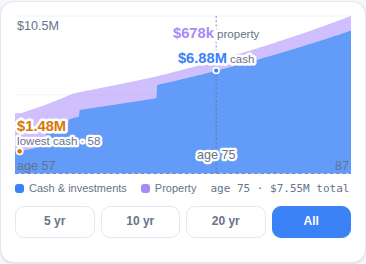
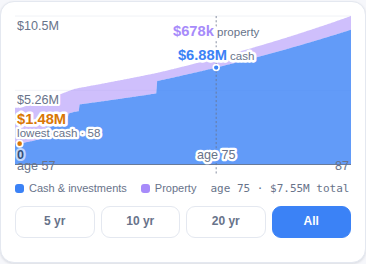
Render zero as a real labelled axis, and label the gridlines
Without a scale to read against, a dot's height cannot be checked against the
number printed beside it, which is why the on-curve figures looked like they did
not match the curve.

Zero is now a solid labelled axis rather than a faint dash, and the two
gridlines carry their values. A sliver is always reserved below zero so the axis
sits inside the plot instead of flush with the bottom edge, where it was
invisible whenever nothing went negative.

Labels are placed zero-first and any that would land on top of an already placed
one is dropped: when the scale spans a deep shortfall the gridlines bunch
against the top and would otherwise print over each other.

Claude-Session: https://claude.ai/code/session_01WhJcZ9Se9VHsj4TqAnspTi

diff --git a/mobile.html b/mobile.html
@@ -1264,7 +1264,10 @@
     const xs = series.map(d => d.age);
     const tops = series.map(d => Math.max(d.liq, 0) + Math.max(d.iliq, 0));
     const lows = series.map(d => Math.min(d.liq, 0));
-    const hi = Math.max(...tops, 1), lo = Math.min(...lows, 0);
+    const hi = Math.max(...tops, 1), rawLo = Math.min(...lows, 0);
+    // Always keep a sliver below zero so the zero axis is a visible line inside the plot
+    // rather than being flush with the bottom edge, where it cannot be seen or labelled.
+    const lo = rawLo < 0 ? rawLo : -hi * 0.06;
     const x = a => (a - xs[0]) / Math.max(xs[xs.length - 1] - xs[0], 1) * W;
     const y = v => H - (v - lo) / Math.max(hi - lo, 1) * H;
     const area = (get, base) => {
@@ -1273,8 +1276,29 @@
       return up + dn + 'Z';
     };
     const zeroY = y(0).toFixed(1);
-    const gridY = [hi, hi / 2].map(v =>
-      `<line x1="0" x2="${W}" y1="${y(v).toFixed(1)}" y2="${y(v).toFixed(1)}" stroke="var(--line)" stroke-width=".5"/>`).join('');
+    // Gridlines carry their VALUE, and zero is drawn as a real labelled axis rather than
+    // a faint dash — without a scale to read against, a dot's height cannot be checked
+    // against the number printed next to it. When nothing goes negative zero sits on the
+    // bottom edge, so its label is nudged above the line to stay visible.
+    const gridY = [hi, hi / 2].map(v => {
+      const gy = y(v);
+      return `<line x1="0" x2="${W}" y1="${gy.toFixed(1)}" y2="${gy.toFixed(1)}" stroke="var(--line)" stroke-width=".5"/>`;
+    }).join('');
+    // Labels are placed zero-first and anything that would land on top of an already
+    // placed one is dropped. When the scale spans a deep shortfall the gridlines bunch
+    // against the top and their labels would otherwise print over each other.
+    const placed = [];
+    const label = (v, gy, bold) => {
+      const ty = gy > H - 24 ? gy - 5 : gy + 13;   // near the floor, label above the line
+      if (placed.some(p => Math.abs(p - ty) < 14)) return '';
+      placed.push(ty);
+      return `<text x="2" y="${ty.toFixed(1)}" font-size="12"${bold ? ' font-weight="700"' : ''}` +
+        ` fill="var(--${bold ? 'ink' : 'dim'})"${bold ? ' opacity=".6"' : ''}` +
+        ` paint-order="stroke" stroke="var(--card)" stroke-width="4" stroke-linejoin="round">${bold ? '0' : fmt(v)}</text>`;
+    };
+    const zeroLine =
+      `<line x1="0" x2="${W}" y1="${zeroY}" y2="${zeroY}" stroke="var(--ink)" stroke-width="1" opacity=".45"/>` +
+      label(0, +zeroY, true) + [hi, hi / 2].map(v => label(v, y(v), false)).join('');
     // Crosshair + on-curve value. Built into the same innerHTML write as the areas, so a
     // slider move or a zoom change redraws it instead of wiping it. The label carries a
     // card-coloured halo (paint-order:stroke) to stay readable on top of the fills.
@@ -1357,8 +1381,7 @@
       gridY +
       `<path d="${area(d => Math.max(d.liq,0) + Math.max(d.iliq,0), d => Math.max(d.liq,0))}" fill="var(--iliq)" opacity=".55"/>` +
       `<path d="${area(d => d.liq, () => 0)}" fill="var(--liq)" opacity=".8"/>` +
-      `<line x1="0" x2="${W}" y1="${zeroY}" y2="${zeroY}" stroke="var(--dim)" stroke-width=".75" stroke-dasharray="3 3"/>` +
-      `<text x="2" y="${Math.max(y(hi) + 13, 13).toFixed(1)}" font-size="12" fill="var(--dim)">${fmt(hi)}</text>` +
+      zeroLine +
       `<text x="2" y="${(H - 3).toFixed(1)}" font-size="12" fill="var(--dim)">age ${Math.floor(xs[0])}</text>` +
       `<text x="${W - 2}" y="${(H - 3).toFixed(1)}" font-size="12" fill="var(--dim)" text-anchor="end">${Math.floor(xs[xs.length-1])}</text>` +
       lowMark + cross;   // crosshair last so a tapped point sits above the fixed marker
